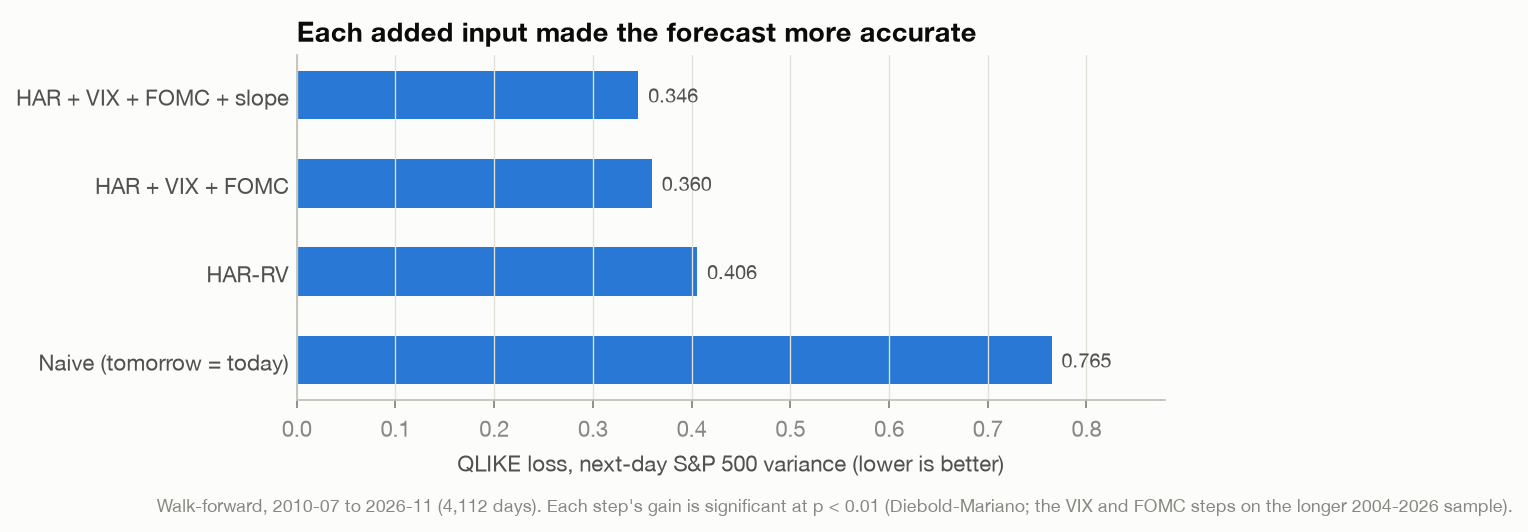
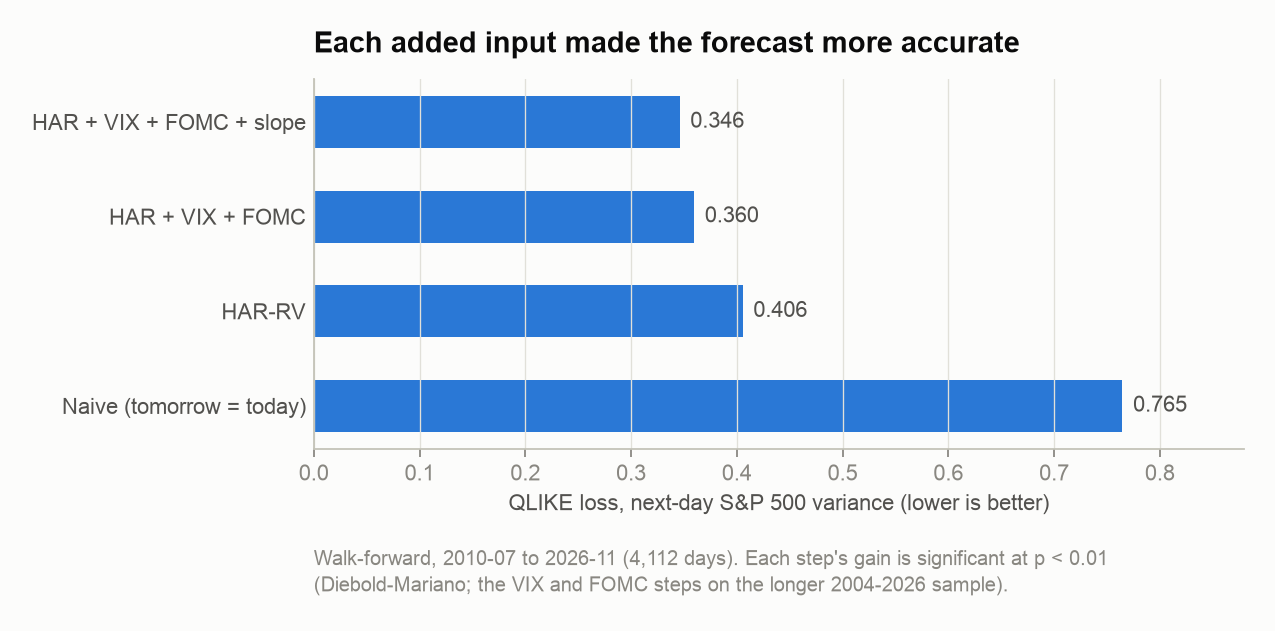
Figures: one font, three text sizes, no overlapping labels

diff --git a/src/make_charts.py b/src/make_charts.py
@@ -3,6 +3,8 @@
 Usage: python -m src.make_charts   -> outputs/figures/*.png
 """
 
+import textwrap
+
 import matplotlib
 matplotlib.use("Agg")
 import matplotlib.pyplot as plt
@@ -19,17 +21,29 @@ BLUE, ORANGE = "#2a78d6", "#eb6834"
 SURFACE, INK, INK2, MUTED, GRID, AXIS = "#fcfcfb", "#0b0b0b", "#52514e", "#898781", "#e1e0d9", "#c3c2b7"
 plt.rcParams.update({
     "figure.facecolor": SURFACE, "axes.facecolor": SURFACE, "savefig.facecolor": SURFACE,
-    "font.family": "sans-serif", "font.sans-serif": ["Helvetica Neue", "Arial", "DejaVu Sans"],
-    "font.size": 10, "text.color": INK, "axes.labelcolor": INK2, "axes.edgecolor": AXIS,
+    # Arial renders evenly in matplotlib (the Helvetica Neue .ttc mixes faces); DejaVu is the fallback.
+    "font.family": "sans-serif", "font.sans-serif": ["Arial", "DejaVu Sans"],
+    # Three sizes only: title 13, everything else 10, footnote 9.
+    "font.size": 10, "axes.labelsize": 10, "xtick.labelsize": 10, "ytick.labelsize": 10, "legend.fontsize": 10, "text.color": INK, "axes.labelcolor": INK2, "axes.edgecolor": AXIS,
     "xtick.color": MUTED, "ytick.color": MUTED, "axes.grid": True, "grid.color": GRID, "grid.linewidth": 0.6,
-    "axes.spines.top": False, "axes.spines.right": False, "axes.titlesize": 12, "axes.titleweight": "bold",
+    "axes.spines.top": False, "axes.spines.right": False, "axes.titlesize": 13, "axes.titlepad": 12, "axes.titleweight": "bold",
     "axes.titlelocation": "left", "axes.titlecolor": INK,
 })
 
 
+LABEL = 10      # annotation size, same as ticks
+NOTE = 9        # footnote size
+
+
+def _note(ax, text, width=110, below=44):
+    """Footnote anchored to the axes' left edge, a fixed distance under the x-axis label, wrapped to fit."""
+    ax.annotate(textwrap.fill(text, width), xy=(0, 0), xycoords="axes fraction", xytext=(0, -below),
+                textcoords="offset points", va="top", ha="left", color=MUTED, fontsize=NOTE, linespacing=1.4)
+
+
 def _save(fig, name):
     FIG.mkdir(parents=True, exist_ok=True)
-    fig.savefig(FIG / name, dpi=160, bbox_inches="tight")
+    fig.savefig(FIG / name, dpi=160, bbox_inches="tight", pad_inches=0.2)
     plt.close(fig)
 
 
@@ -38,19 +52,19 @@ def fig_accuracy():
     d = pd.read_csv(OUT / "slope_results.csv").sort_values("QLIKE", ascending=False)
     labels = {"Naive": "Naive (tomorrow = today)", "HAR-RV (log)": "HAR-RV",
               "HAR+VIX+FOMC (log)": "HAR + VIX + FOMC", "HAR+VIX+FOMC+Slope (log)": "HAR + VIX + FOMC + slope"}
-    fig, ax = plt.subplots(figsize=(7, 2.8))
+    fig, ax = plt.subplots(figsize=(7.5, 3))
     y = np.arange(len(d))
     ax.barh(y, d["QLIKE"], height=0.55, color=BLUE)
     for yi, v in zip(y, d["QLIKE"]):
-        ax.text(v + 0.01, yi, f"{v:.3f}", va="center", color=INK2, fontsize=9)
+        ax.text(v + 0.01, yi, f"{v:.3f}", va="center", color=INK2, fontsize=LABEL)
     ax.set_yticks(y, [labels.get(m, m) for m in d["model"]], color=INK2)
     ax.tick_params(axis="y", length=0)
     ax.grid(axis="y", visible=False)
     ax.set_xlim(0, d["QLIKE"].max() * 1.15)
     ax.set_xlabel("QLIKE loss, next-day S&P 500 variance (lower is better)")
     ax.set_title("Each added input made the forecast more accurate")
-    fig.text(0.0, -0.14, "Walk-forward, 2010-07 to 2026-11 (4,112 days). Each step's gain is significant at p < 0.01 "
-             "(Diebold-Mariano; the VIX and FOMC steps on the longer 2004-2026 sample).", color=MUTED, fontsize=8)
+    _note(ax, "Walk-forward, 2010-07 to 2026-11 (4,112 days). Each step's gain is significant at p < 0.01 "
+          "(Diebold-Mariano; the VIX and FOMC steps on the longer 2004-2026 sample).", width=95)
     _save(fig, "1_forecast_accuracy.png")
 
 
@@ -59,23 +73,29 @@ def fig_accuracy_vs_value():
     q = pd.read_csv(OUT / "slope_results.csv").set_index("model")["QLIKE"]
     s = pd.read_csv(OUT / "volmanaged_stats_lag1.csv")
     s = s[s["sample"] == "All"].set_index("model")["Sharpe"]
-    names = {"Naive": "Naive", "HAR-RV (log)": "HAR-RV", "HAR+VIX+FOMC (log)": "HAR+VIX+FOMC",
-             "HAR+VIX+FOMC+Slope (log)": "+ slope (most accurate)"}
-    fig, ax = plt.subplots(figsize=(7, 3.6))
-    for m, lab in names.items():
+    # (label, offset in points, alignment): the three HAR points sit close together, so their
+    # labels fan out (left-above, above, right-below) instead of sharing one offset.
+    names = {"Naive": ("Naive", (10, 0), "left", "center"),
+             "HAR-RV (log)": ("HAR-RV", (-8, 10), "right", "bottom"),
+             "HAR+VIX+FOMC (log)": ("HAR + VIX + FOMC", (4, 12), "left", "bottom"),
+             "HAR+VIX+FOMC+Slope (log)": ("+ slope (most accurate)", (6, -12), "left", "top")}
+    fig, ax = plt.subplots(figsize=(7.5, 4))
+    for m, (lab, off, ha, va) in names.items():
         x, yv = q[m], s[f"Managed: {m}"]
-        ax.scatter(x, yv, s=60, color=BLUE, edgecolor=SURFACE, linewidth=2, zorder=3)
-        ax.annotate(lab, (x, yv), xytext=(7, 4), textcoords="offset points", fontsize=9, color=INK2)
+        ax.scatter(x, yv, s=64, color=BLUE, edgecolor=SURFACE, linewidth=2, zorder=3)
+        ax.annotate(lab, (x, yv), xytext=off, textcoords="offset points", fontsize=LABEL, color=INK2,
+                    ha=ha, va=va)
     bh = s["Buy & hold SPY"]
     ax.axhline(bh, color=MUTED, linewidth=1, linestyle=(0, (4, 3)))
-    ax.text(0.31, bh, "Buy & hold SPY ", va="bottom", ha="left", fontsize=9, color=MUTED)
+    ax.annotate("Buy & hold SPY", (0.79, bh), xytext=(0, 4), textcoords="offset points",
+                va="bottom", ha="left", fontsize=LABEL, color=MUTED)
     ax.set_xlim(0.80, 0.25)  # reversed: more accurate to the right
     ax.set_ylim(0.70, 0.90)  # wide enough that small differences look small
     ax.set_xlabel("Forecast loss, QLIKE (more accurate to the right)")
     ax.set_ylabel("Sharpe of the managed SPY portfolio")
     ax.set_title("Past a basic model, better forecasts did not make a better portfolio")
-    fig.text(0.0, -0.1, "Volatility-managed SPY, one-day execution delay, 2010-08 to 2026-11. Sharpe differences vs "
-             "buy & hold are all inside their 95% bootstrap intervals.", color=MUTED, fontsize=8)
+    _note(ax, "Volatility-managed SPY, one-day execution delay, 2010-08 to 2026-11. Sharpe differences vs "
+          "buy & hold are all inside their 95% bootstrap intervals.", width=100)
     _save(fig, "2_accuracy_vs_value.png")
 
 
@@ -85,25 +105,28 @@ def fig_price_of_protection():
     r = r[r["sample"] == "All"].set_index("model")
     m = pd.read_csv(OUT / "multiasset_stats_lag1.csv")
     m = m[m["sample"] == "All"].set_index("model")
-    # (label, row, label offset in points, horizontal alignment)
-    pts = [("Buy & hold SPY", r.loc["Buy & hold SPY"], (-8, -6), "right"),
-           ("60/40 SPY/IEF", m.loc["60/40 SPY/IEF"], (8, -6), "left"),
-           ("Equal weight SPY/IEF/GLD\n(5-point band)", r.loc["Equal weight, 5-point band"], (-8, 30), "left"),
-           ("Equal weight + trend filter", r.loc["Equal weight + 200-day trend filter"], (8, 26), "left"),
-           ("Risk parity, vol-managed", m.loc["Risk parity, managed"], (8, -6), "left")]
-    fig, ax = plt.subplots(figsize=(7, 4))
+    # (label, row, label offset in points, horizontal alignment). Every label sits beside its dot,
+    # vertically centred on it, so text never covers a marker.
+    # The equal-weight label goes above its dot (va set per point below).
+    pts = [("Buy & hold SPY", r.loc["Buy & hold SPY"], (-12, 0), "right"),
+           ("60/40 SPY/IEF", m.loc["60/40 SPY/IEF"], (12, 0), "left"),
+           ("Equal weight SPY/IEF/GLD\n(5-point band)", r.loc["Equal weight, 5-point band"], (0, 12), "center"),
+           ("Equal weight + trend filter", r.loc["Equal weight + 200-day trend filter"], (12, 0), "left"),
+           ("Risk parity, vol-managed", m.loc["Risk parity, managed"], (12, 0), "left")]
+    fig, ax = plt.subplots(figsize=(7.5, 4.6))
     for lab, row, off, ha in pts:
         is_pick = lab.startswith("Equal weight SPY")
         ax.scatter(-row["MaxDD"] * 100, row["CAGR"] * 100, s=90 if is_pick else 60,
                    color=ORANGE if is_pick else BLUE, edgecolor=SURFACE, linewidth=2, zorder=3)
         ax.annotate(f"{lab}\nSharpe {row['Sharpe']:.2f}", (-row["MaxDD"] * 100, row["CAGR"] * 100),
-                    xytext=off, textcoords="offset points", fontsize=8.5, color=INK2, va="top", ha=ha)
-    ax.set_xlim(5, 62); ax.set_ylim(4, 12.5)
+                    xytext=off, textcoords="offset points", fontsize=LABEL, color=INK2, va="bottom" if is_pick else "center", ha=ha,
+                    linespacing=1.3)
+    ax.set_xlim(5, 62); ax.set_ylim(4, 12)
     ax.set_xlabel("Worst peak-to-trough loss, % (smaller is better)")
     ax.set_ylabel("Return per year, %")
     ax.set_title("The price of protection: a little return buys much smaller crashes")
-    fig.text(0.0, -0.06, "2007-01 to 2026-11, one-day execution delay, trading costs included. Orange = the most "
-             "robust option found (Phase 8).", color=MUTED, fontsize=8)
+    _note(ax, "2007-01 to 2026-11, one-day execution delay, trading costs included. Orange = the most "
+          "robust option found (Phase 8).", width=95)
     _save(fig, "3_price_of_protection.png")
 
 
@@ -114,24 +137,25 @@ def fig_international():
     t = t.sort_values("maxdd_bh")
     lab = [f"{c} ({f})" for c, f in zip(t["country"], t["fund"])]
     y = np.arange(len(t))
-    fig, (a1, a2) = plt.subplots(1, 2, figsize=(10, 5.2), sharey=True, gridspec_kw={"wspace": 0.08})
+    fig, (a1, a2) = plt.subplots(1, 2, figsize=(10.5, 5.8), sharey=True, gridspec_kw={"wspace": 0.1})
     a1.hlines(y, -t["maxdd_bh"] * 100, -t["maxdd_man"] * 100, color=AXIS, linewidth=2)
     a1.scatter(-t["maxdd_bh"] * 100, y, s=50, color=MUTED, edgecolor=SURFACE, linewidth=2, zorder=3, label="Buy & hold")
     a1.scatter(-t["maxdd_man"] * 100, y, s=50, color=BLUE, edgecolor=SURFACE, linewidth=2, zorder=3, label="Volatility-managed")
     a1.set_yticks(y, lab, color=INK2); a1.tick_params(axis="y", length=0); a1.grid(axis="y", visible=False)
     a1.set_xlabel("Maximum drawdown, %"); a1.set_xlim(30, 80)
-    a1.set_title("Drawdown smaller in 14 of 14")
-    a1.legend(loc="upper right", frameon=False, fontsize=9)
+    a1.set_title("Drawdown smaller in 14 of 14", pad=30)
+    a1.legend(loc="lower left", bbox_to_anchor=(0, 1.0), ncol=2, frameon=False, borderaxespad=0.2,
+              handletextpad=0.3, columnspacing=1.2)
     a2.axvline(0, color=AXIS, linewidth=1)
     a2.hlines(y, t["lo95"], t["hi95"], color=BLUE, alpha=0.35, linewidth=3)
     a2.scatter(t["sharpe_diff"], y, s=40, color=BLUE, edgecolor=SURFACE, linewidth=2, zorder=3)
     a2.tick_params(axis="y", length=0); a2.grid(axis="y", visible=False)
     a2.set_xlabel("Sharpe change vs buy & hold (dot) and 95% interval")
-    a2.set_title("Sharpe: no gain (average −0.02)")
+    a2.set_title("Sharpe: no gain (average −0.02)", pad=30)
     fig.suptitle("Out-of-sample test on 14 international funds (rules committed before the data)",
-                 x=0.0, ha="left", fontsize=12, fontweight="bold", y=1.0)
-    fig.text(0.0, -0.03, "iShares country ETFs, 2002-2026, one-day delay, 10 bps costs. Belgium excluded by the "
-             "pre-registered data rule.", color=MUTED, fontsize=8)
+                 x=0.0, ha="left", fontsize=13, fontweight="bold", y=1.035)
+    _note(a1, "iShares country ETFs, 2002-2026, one-day delay, 10 bps costs. Belgium excluded by the "
+          "pre-registered data rule.", width=140)
     _save(fig, "4_international.png")
 
 
